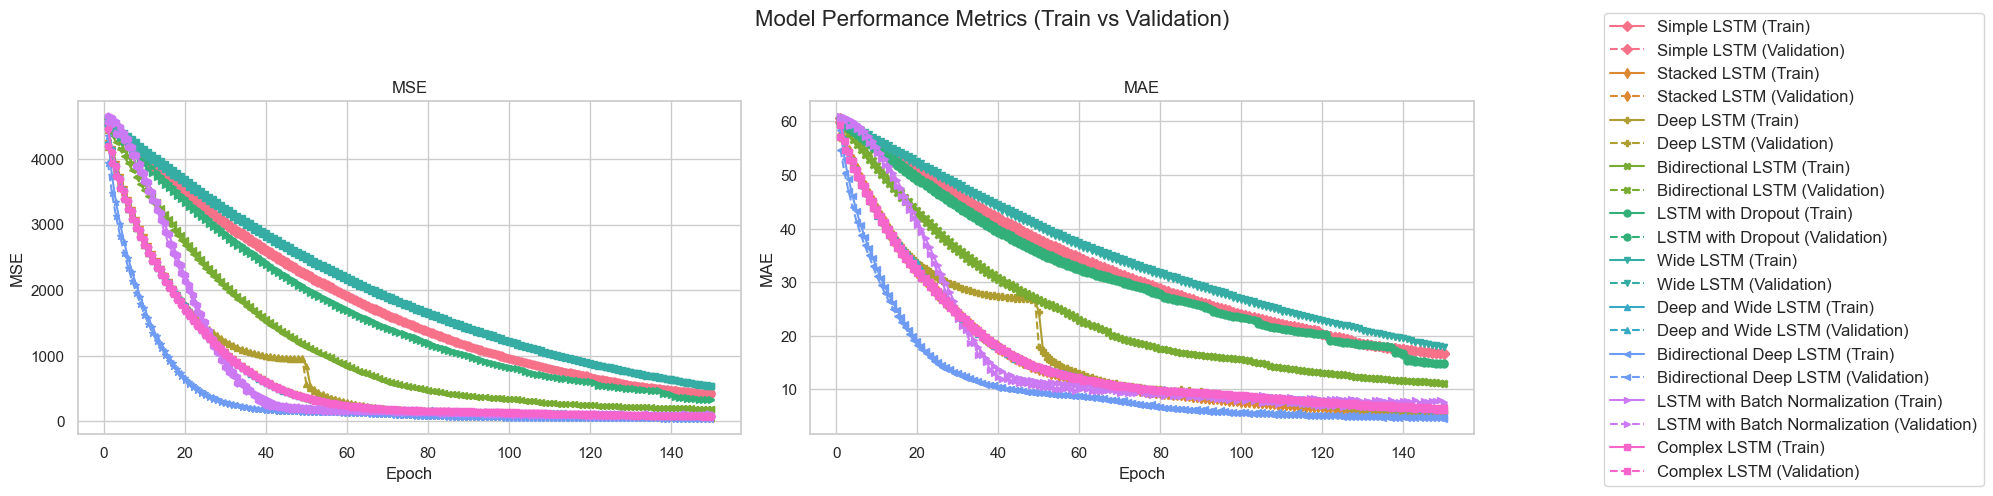
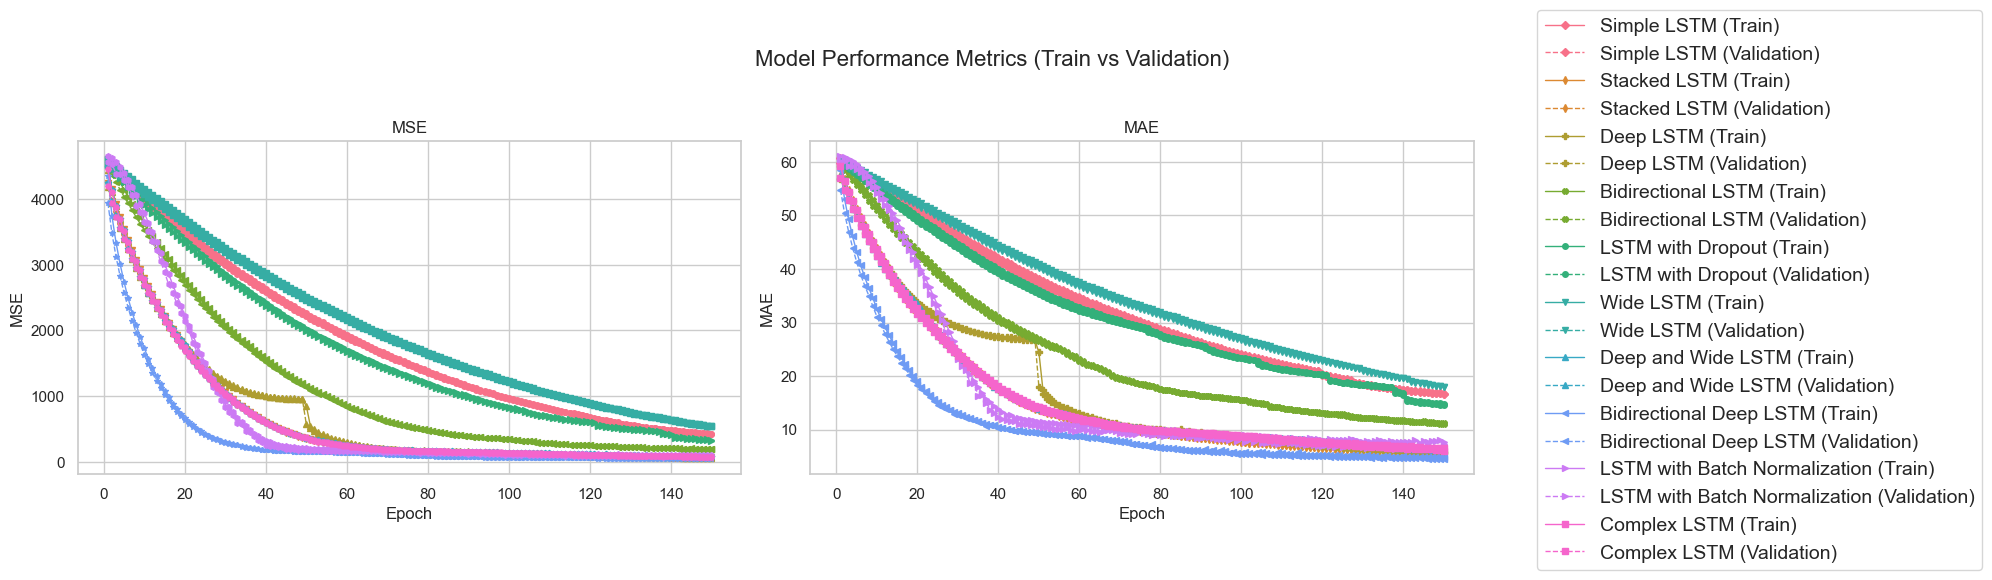
Illustration results

diff --git a/Step5RNN_LSTM_model/LSTMdraw/TenModelsEval.py b/Step5RNN_LSTM_model/LSTMdraw/TenModelsEval.py
@@ -1,105 +1,168 @@
+# import pandas as pd
+# import matplotlib.pyplot as plt
+# import seaborn as sns
+# from itertools import cycle
+#
+#
+# # Function to plot all metrics with consistent style across charts
+# def plot_all_metrics_consistent_style(data, metrics, title):
+#     # Setting the style
+#     sns.set(style="whitegrid")
+#
+#     # Creating subplots
+#     fig, axes = plt.subplots(1, len(metrics), figsize=(20, 5))
+#
+#     # Custom color palette
+#     palette = sns.color_palette("husl", len(data['Model'].unique()))
+#
+#     # Creating a color and marker iterator
+#     colors = cycle(palette)
+#     markers = cycle(['o', 'v', '^', '<', '>', 's', 'p', '*', 'h', 'H', 'D', 'd', 'P', 'X'])
+#
+#     # Plotting each metric
+#     for i, metric in enumerate(metrics):
+#         ax = axes[i]
+#         for model in data['Model'].unique():
+#             model_data = data[data['Model'] == model]
+#             color = next(colors)
+#             marker = next(markers)
+#             ax.plot(model_data['Epoch'], model_data[f'Train {metric}'], label=f'{model} (Train)',
+#                     color=color, marker=marker, linestyle='-', linewidth=1, markersize=4)
+#             ax.plot(model_data['Epoch'], model_data[f'Validation {metric}'], label=f'{model} (Validation)',
+#                     color=color, marker=marker, linestyle='--', linewidth=1, markersize=4)
+#         ax.set_title(metric)
+#         ax.set_xlabel('Epoch')
+#         ax.set_ylabel(metric)
+#
+#     # Adjusting layout
+#     fig.suptitle(title, fontsize=16)
+#     fig.tight_layout(rect=[0, 0, 0.75, 0.95])
+#
+#     # Adding legend
+#     handles, labels = ax.get_legend_handles_labels()
+#     fig.legend(handles, labels, loc='center right', bbox_to_anchor=(1, 0.5), fontsize=14)
+#
+#     # Save the figure
+#     plt.savefig('model_performance_metrics.png', bbox_inches='tight')
+#
+#     plt.show()
+#
+#
+# # Load your data
+# data = pd.read_csv('LSTMallModelEvaluationHistory.csv')  # Replace with your data file path
+#
+# # Define the metrics you want to plot
+# metrics = [ 'MSE', 'MAE']
+# title = 'Model Performance Metrics (Train vs Validation)'
+#
+# # Call the function to plot the metrics
+# plot_all_metrics_consistent_style(data, metrics, title)
+# import pandas as pd
+# import matplotlib.pyplot as plt
+# import seaborn as sns
+# from itertools import cycle
+#
+# def plot_all_metrics_consistent_style(data, metrics, title):
+#     fig, axes = plt.subplots(1, len(metrics), figsize=(18, 6))
+#     models = data['Model'].unique()
+#
+#     # Predefined colors and markers for consistency across plots
+#     color_map = {model: color for model, color in zip(models, sns.color_palette("tab10", len(models)))}
+#     marker_map = {model: marker for model, marker in zip(models, cycle(['o', 'v', '^', '<', '>', 's', 'p', '*', 'h', 'H', 'D', 'd', 'P', 'X']))}
+#     marker_size = 4  # Consistent smaller marker size
+#     line_weight = 0.75  # Consistent thinner line weight
+#
+#     lines = []  # To store legend handles
+#     labels = []  # To store legend labels
+#
+#     for i, metric in enumerate(metrics):
+#         for model in models:
+#             color = color_map[model]
+#             marker = marker_map[model]
+#             model_data = data[data['Model'] == model]
+#             line_train, = axes[i].plot(model_data['Epoch'], model_data[f'Train {metric}'],
+#                                        linestyle='-.', marker=marker, color=color, markersize=marker_size, linewidth=line_weight)
+#             line_val, = axes[i].plot(model_data['Epoch'], model_data[f'Validation {metric}'],
+#                                      linestyle='--', marker=marker, color=color, markersize=marker_size, linewidth=line_weight)
+#             if i == 0:  # Add to legend only for the first metric
+#                 lines.extend([line_train, line_val])
+#                 labels.extend([f'{model} (Train)', f'{model} (Validation)'])
+#
+#         axes[i].set_title(f'{metric}')
+#         axes[i].set_xlabel('Epoch', fontsize=12)  # Increase font size for x-axis labels
+#         axes[i].set_ylabel(metric, fontsize=12)  # Increase font size for y-axis labels
+#         axes[i].tick_params(axis='both', which='major', labelsize=10)  # Increase font size for axis numbers
+#
+#     fig.suptitle(title)
+#     fig.legend(lines, labels, loc='center right', bbox_to_anchor=(1, 0.5), fontsize=14)  # Increase font size for legend
+#     plt.tight_layout(rect=[0, 0, 0.85, 1])  # Adjust layout to make room for legend
+#     plt.show()
+#
+# # Load your data
+# data = pd.read_csv('LSTMallModelEvaluationHistory.csv')  # Replace with your file path
+#
+# # Plotting all metrics with consistent style across charts
+# plot_all_metrics_consistent_style(data, [ 'MSE', 'MAE'], 'Model Performance Metrics (Train vs Validation)')
+
 import pandas as pd
 import matplotlib.pyplot as plt
 import seaborn as sns
 from itertools import cycle
-
-
-# Function to plot all metrics with consistent style across charts
-def plot_all_metrics_consistent_style(data, metrics, title):
-    # Setting the style
-    sns.set(style="whitegrid")
-
-    # Creating subplots
-    fig, axes = plt.subplots(1, len(metrics), figsize=(20, 5))
-
-    # Custom color palette
-    palette = sns.color_palette("husl", len(data['Model'].unique()))
-
-    # Creating a color and marker iterator
-    colors = cycle(palette)
-    markers = cycle(['o', 'v', '^', '<', '>', 's', 'p', '*', 'h', 'H', 'D', 'd', 'P', 'X'])
-
-    # Plotting each metric
-    for i, metric in enumerate(metrics):
-        ax = axes[i]
-        for model in data['Model'].unique():
-            model_data = data[data['Model'] == model]
-            color = next(colors)
-            marker = next(markers)
-            ax.plot(model_data['Epoch'], model_data[f'Train {metric}'], label=f'{model} (Train)',
-                    color=color, marker=marker, linestyle='-', linewidth=1.5, markersize=5)
-            ax.plot(model_data['Epoch'], model_data[f'Validation {metric}'], label=f'{model} (Validation)',
-                    color=color, marker=marker, linestyle='--', linewidth=1.5, markersize=5)
-        ax.set_title(metric)
-        ax.set_xlabel('Epoch')
-        ax.set_ylabel(metric)
-
-    # Adjusting layout
-    fig.suptitle(title, fontsize=16)
-    fig.tight_layout(rect=[0, 0, 0.75, 0.95])
-
-    # Adding legend
-    handles, labels = ax.get_legend_handles_labels()
-    fig.legend(handles, labels, loc='center right', bbox_to_anchor=(1, 0.5), fontsize=12)
-
-    # Save the figure
-    plt.savefig('model_performance_metrics.png', bbox_inches='tight')
-
-    plt.show()
-
-
-# Load your data
-data = pd.read_csv('LSTMallModelEvaluationHistory.csv')  # Replace with your data file path
-
-# Define the metrics you want to plot
-metrics = [ 'MSE', 'MAE']
-title = 'Model Performance Metrics (Train vs Validation)'
-
-# Call the function to plot the metrics
-plot_all_metrics_consistent_style(data, metrics, title)
-import pandas as pd
-import matplotlib.pyplot as plt
-import seaborn as sns
-from itertools import cycle
-
+fontsize = 12
 def plot_all_metrics_consistent_style(data, metrics, title):
     fig, axes = plt.subplots(1, len(metrics), figsize=(18, 6))
     models = data['Model'].unique()
 
     # Predefined colors and markers for consistency across plots
-    color_map = {model: color for model, color in zip(models, sns.color_palette("tab10", len(models)))}
-    marker_map = {model: marker for model, marker in zip(models, cycle(['o', 's', '^', 'D', 'x', '+']))}
-    marker_size = 3  # Consistent smaller marker size
-    line_weight = 1.5  # Consistent thinner line weight
+    color_map = {model: color for model, color in zip(models, sns.color_palette(n_colors=len(models)))}
+    marker_map = {model: marker for model, marker in zip(models, cycle(['|', 'v', '^', '<', '>', 's', 'p', '*', 'h', 'X']))}
+    line_weight = 0.75  # Consistent thinner line weight
 
-    lines = []  # To store legend handles
-    labels = []  # To store legend labels
+    model_lines = []  # To store model legend handles
+    model_labels = []  # To store model legend labels
 
     for i, metric in enumerate(metrics):
         for model in models:
             color = color_map[model]
             marker = marker_map[model]
             model_data = data[data['Model'] == model]
-            line_train, = axes[i].plot(model_data['Epoch'], model_data[f'Train {metric}'],
-                                       linestyle='-', marker=marker, color=color, markersize=marker_size, linewidth=line_weight)
-            line_val, = axes[i].plot(model_data['Epoch'], model_data[f'Validation {metric}'],
-                                     linestyle='--', marker=marker, color=color, markersize=marker_size, linewidth=line_weight)
-            if i == 0:  # Add to legend only for the first metric
-                lines.extend([line_train, line_val])
-                labels.extend([f'{model} (Train)', f'{model} (Validation)'])
+            line, = axes[i].plot(model_data['Epoch'], model_data[f'Train {metric}'],
+                                 linestyle='-.', marker=marker, color=color, markersize=6, linewidth=line_weight, markevery=10)
+            axes[i].plot(model_data['Epoch'], model_data[f'Validation {metric}'],
+                         linestyle='dotted', marker=marker, color=color, markersize=1, linewidth=line_weight, markevery=10)
+            if i == 0:  # Add to model legend only for the first metric
+                model_lines.append(line)
+                model_labels.append(model)
 
         axes[i].set_title(f'{metric}')
-        axes[i].set_xlabel('Epoch', fontsize=12)  # Increase font size for x-axis labels
-        axes[i].set_ylabel(metric, fontsize=12)  # Increase font size for y-axis labels
-        axes[i].tick_params(axis='both', which='major', labelsize=10)  # Increase font size for axis numbers
+        axes[i].set_xlabel('Epoch', fontsize=fontsize)
+        axes[i].set_ylabel(metric,fontsize=fontsize)
+        axes[i].tick_params(axis='both', which='major')
 
-    fig.suptitle(title)
-    fig.legend(lines, labels, loc='center right', bbox_to_anchor=(1, 0.5), fontsize=12)  # Increase font size for legend
-    plt.tight_layout(rect=[0, 0, 0.85, 1])  # Adjust layout to make room for legend
+    # Create the model legend at the upper center of the plot
+    model_legend = fig.legend(handles=model_lines, labels=model_labels, loc='upper center',
+                              bbox_to_anchor=(0.31, .79), ncol=3, frameon=False)
+
+    # Ensure that the style legend is below the model legend
+    # This is the part we adjust by changing the bbox_to_anchor
+    train_line = plt.Line2D([0], [0], color='black', linestyle='-.', linewidth=line_weight)
+    val_line = plt.Line2D([0], [0], color='black', linestyle='--', linewidth=line_weight)
+    style_legend = fig.legend(handles=[train_line, val_line], labels=['Train', 'Validation'],
+                              loc='upper center', bbox_to_anchor=(0.4, 0.65), ncol=2, frameon=True)
+    style_legend.get_frame().set_facecolor('white')
+    style_legend.get_frame().set_edgecolor('black')
+
+    # Place the model legend back in the figure
+    fig.add_artist(model_legend)
+
+    fig.suptitle(title, y=1.05)
+    fig.tight_layout(rect=[0, 0.03, 1, 0.92])
     plt.show()
 
 # Load your data
 data = pd.read_csv('LSTMallModelEvaluationHistory.csv')  # Replace with your file path
 
 # Plotting all metrics with consistent style across charts
-plot_all_metrics_consistent_style(data, [ 'MSE', 'MAE'], 'Model Performance Metrics (Train vs Validation)')
+plot_all_metrics_consistent_style(data, ['MSE', 'MAE'], 'Model Performance Metrics (Train vs Validation)')
+
+

diff --git a/Step5RNN_LSTM_model/LSTMdraw/Scenarios.py b/Step5RNN_LSTM_model/LSTMdraw/Scenarios.py
@@ -61,11 +61,11 @@ for i, (scenario, data) in enumerate(Scenarios.items()):
     print (scenario, len(data['actual_data']))
 
     # Plotting data
-    ax.plot(hours[:24], data['past_surface_temp'], label='Past Surface Temp', color='blue')
-    ax.plot(hours[23:], data['actual_data'], label='Actual Data', color='green')
-    ax.plot(hours[24:], data['deep_lstm_pred'], label='Deep LSTM Predicted', color='red', linestyle='dashed')
-    ax.plot(hours[24:], data['bi_lstm_pred'], label='Bidirectional LSTM Predicted', color='purple', linestyle='dashed')
-    ax.plot(hours[24:], data['stacked_lstm_pred'], label='Stacked LSTM Predicted', color='orange', linestyle='dashed')
+    ax.plot(hours[:24], data['past_surface_temp'], label='Past Surface Temp', color='blue', linestyle='solid')
+    ax.plot(hours[23:], data['actual_data'], label='Actual Data', color='green', linestyle='--')
+    ax.plot(hours[24:], data['deep_lstm_pred'], label='Deep LSTM Predicted', color='red', linestyle='--', marker = '|', markersize=10,  markevery=5)
+    ax.plot(hours[24:], data['bi_lstm_pred'], label='Bidirectional LSTM Predicted', color='purple', linestyle='--', marker = '*', markersize=7,  markevery=5)
+    ax.plot(hours[24:], data['stacked_lstm_pred'], label='Stacked LSTM Predicted', color='orange', linestyle='--', marker = 'o', markersize=7,  markevery=5)
 
     # Adding titles and labels
     ax.set_title(f'{scenario}')
